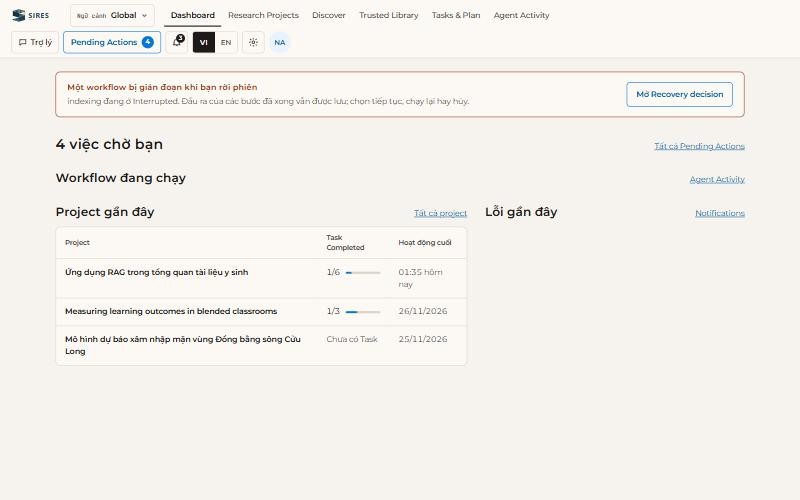
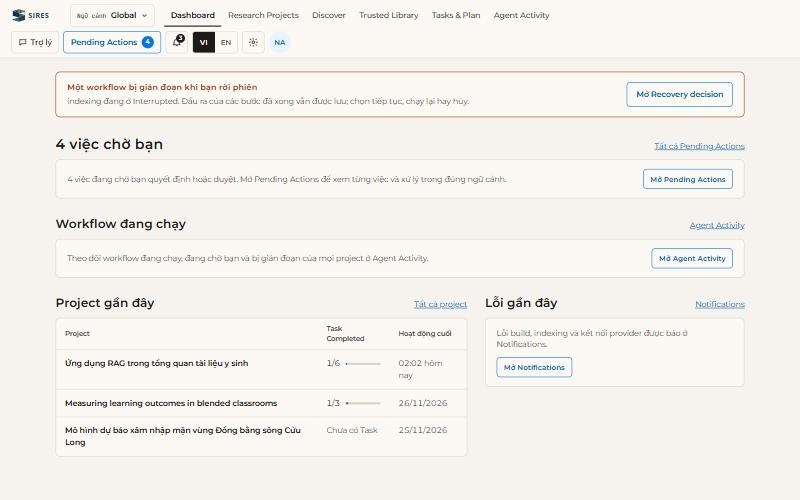
web/global: khối Dashboard chưa có dòng có câu giải thích và hành động tiếp (PID-00037 Lần 2)
Theo nhận xét của phiên điều phối: khối việc chờ, Workflow, Lỗi gần đây có
một dòng giải thích và nút tới Pending Actions, Agent Activity, Notifications
cho tới khi PID-00060 cấp dòng (H2); khi không có việc chờ thì nêu lý do.
Nhãn Task Completed giữ như Dashboard.html (thuật ngữ cố định).

Phiên do PO giao, làm thay assignee congminh1705.

diff --git a/apps/web/src/features/global/dashboard/DashboardScreen.tsx b/apps/web/src/features/global/dashboard/DashboardScreen.tsx
@@ -6,7 +6,7 @@
 // loading, error and empty state (WS-DASHBOARD-001). First-run (H3): no Active project → empty block with
 // “Tạo project”; no Provider Connection → API key banner. Recovery banner on Interrupted workflows (H4).
 
-import { useCallback, useEffect, useState } from 'react';
+import { useCallback, useEffect, useState, type ReactNode } from 'react';
 import { useTranslation } from 'react-i18next';
 import { Link } from 'react-router';
 import type { PublicApi } from '@sires/contracts';
@@ -93,12 +93,29 @@ function PendingBlock({ state, onRetry }: { state: Load<Dashboard>; onRetry: () 
       </div>
       {state.status === 'loading' && <LoadingState what={t('dashboard.pending.loadingWhat')} rows={2} />}
       {state.status === 'error' && <ErrorState error={state.error} ns="global" onRetry={onRetry} />}
+      {count === 0 && <p className="g-note">{t('dashboard.pending.noneReason')}</p>}
+      {count !== undefined && count > 0 && <BlockNote text={t('dashboard.pending.note', { count })} to="/pending-actions" action={t('dashboard.pending.open')} />}
     </section>
   );
 }
 
-/** Frame of a block whose rows PID-00060 fills (H2): heading and the link to the full screen. */
-function FrameBlock({ id, block, title, link, linkLabel, side }: { id: string; block: string; title: string; link: string; linkLabel: string; side?: boolean }) {
+/**
+ * Explanation and next action shown in a block until it has rows (design.md §4 “Trống”: lý do + hành động tiếp). The
+ * rows of the pending, workflow and error blocks come with PID-00060 (H2); until then the block says where to look.
+ */
+function BlockNote({ text, to, action }: { text: string; to: string; action: string }) {
+  return (
+    <div className="g-block-note">
+      <p className="g-block-note__text">{text}</p>
+      <Link className="sires-button" data-variant="outline" data-size="sm" to={to}>
+        {action}
+      </Link>
+    </div>
+  );
+}
+
+/** Frame of a block whose rows PID-00060 fills (H2): heading, link to the full screen, then rows or a note. */
+function FrameBlock({ id, block, title, link, linkLabel, side, note, children }: { id: string; block: string; title: string; link: string; linkLabel: string; side?: boolean; note: { text: string; action: string }; children?: ReactNode }) {
   return (
     <section aria-labelledby={id} className={side ? 'g-section g-block--side' : 'g-section'} data-block={block}>
       <div className="g-head g-head--baseline">
@@ -109,6 +126,7 @@ function FrameBlock({ id, block, title, link, linkLabel, side }: { id: string; b
           {linkLabel}
         </Link>
       </div>
+      {children ?? <BlockNote text={note.text} to={link} action={note.action} />}
     </section>
   );
 }
@@ -223,10 +241,10 @@ export function DashboardScreen() {
       {noConnection && <ApiKeyBanner />}
       {interrupted.length > 0 && <RecoveryBanner workflows={interrupted} pending={pending} />}
       <PendingBlock state={dashboard} onRetry={() => void reloadDashboard()} />
-      <FrameBlock id="g-dash-workflows" block="workflows" title={t('dashboard.workflows.title')} link="/activity" linkLabel={t('dashboard.workflows.all')} />
+      <FrameBlock id="g-dash-workflows" block="workflows" title={t('dashboard.workflows.title')} link="/activity" linkLabel={t('dashboard.workflows.all')} note={{ text: t('dashboard.workflows.note'), action: t('dashboard.workflows.open') }} />
       <div className="g-row">
         <RecentProjectsBlock state={dashboard} onRetry={() => void reloadDashboard()} />
-        <FrameBlock id="g-dash-errors" block="errors" title={t('dashboard.errors.title')} link="/notifications" linkLabel={t('dashboard.errors.all')} side />
+        <FrameBlock id="g-dash-errors" block="errors" title={t('dashboard.errors.title')} link="/notifications" linkLabel={t('dashboard.errors.all')} side note={{ text: t('dashboard.errors.note'), action: t('dashboard.errors.open') }} />
       </div>
     </div>
   );

diff --git a/apps/web/src/features/global/dashboard.spec.tsx b/apps/web/src/features/global/dashboard.spec.tsx
@@ -31,6 +31,10 @@ describe('Dashboard — khung (S05)', () => {
     }
     expect(pending.textContent).toMatch(/^[0-9]+ việc chờ bạn$/);
     expect(main().getByRole('link', { name: 'Tất cả Pending Actions' }).getAttribute('href')).toBe('/pending-actions');
+    // Blocks whose rows come with PID-00060 explain where to look and offer the next action (design.md §4 Trống).
+    expect(main().getByRole('link', { name: 'Mở Pending Actions' }).getAttribute('href')).toBe('/pending-actions');
+    expect(main().getByRole('link', { name: 'Mở Agent Activity' }).getAttribute('href')).toBe('/activity');
+    expect(main().getByRole('link', { name: 'Mở Notifications' }).getAttribute('href')).toBe('/notifications');
   });
 
   it('bỏ project Archived (WS-DASHBOARD-001-AC04, EC05)', async () => {

diff --git a/apps/web/src/features/global/global.css b/apps/web/src/features/global/global.css
@@ -101,4 +101,6 @@ a.sires-button { text-decoration: none; }
 .g-block { flex: 3 1 520px; }
 .g-block--side { flex: 2 1 320px; }
 .g-list { margin: 0; padding: 0; list-style: none; }
+.g-block-note { display: flex; flex-wrap: wrap; align-items: center; justify-content: space-between; gap: 12px 16px; padding: 16px 20px; background: var(--sires-surface); border: 1px solid var(--sires-line); border-radius: var(--sires-radius-card); }
+.g-block-note__text { flex: 1 1 280px; margin: 0; font-size: 14px; line-height: 1.5; color: var(--sires-muted); }
 .g-notice { padding: 12px 16px; border: 1px solid var(--sires-line); border-radius: var(--sires-radius-card); background: var(--sires-surface); font-size: 14px; }

diff --git a/agent/execution/PID-00037/report.md b/agent/execution/PID-00037/report.md
@@ -66,6 +66,21 @@ Không có.
   - `projects-delete-dialog.jpg`: dialog xóa (S04).
   - `projects-390.jpg`: Research Projects ở 390×844 (S02, EC17).
 
+
+## Lần 2 — 27/11/2026
+
+- **Yêu cầu (phiên điều phối, tóm tắt):** ba khối Dashboard “n việc chờ bạn”, “Workflow đang chạy”, “Lỗi gần đây” chỉ có tiêu đề. Dashboard phải hiện danh sách thì dựng đủ; khối để trống là đúng thì phải có trạng thái trống theo design.md (câu giải thích và hành động tiếp); kiểm nhãn “Task Completed”.
+- **Phân loại:** trong phạm vi (P7, P8; design.md §4 “Trống”). Theo H2 của hồ sơ, dòng của ba khối là PID-00060 S06 (PR #142 đã dựng). Vì vậy #141 không thêm danh sách mà áp dụng ý (2).
+- **Đã làm:**
+  - mỗi khối có một dòng giải thích và nút viền xanh tới màn đầy đủ: “Mở Pending Actions”, “Mở Agent Activity”, “Mở Notifications” (`BlockNote` trong `dashboard/DashboardScreen.tsx`);
+  - khi không có việc chờ, khối hiện câu “Khi agent cần bạn duyệt hoặc trả lời, việc đó hiện ở đây đầu tiên.”;
+  - khi PID-00060 cấp dòng, phần giải thích tự ẩn;
+  - test: `dashboard.spec.tsx › thứ tự khối` kiểm thêm ba liên kết.
+- **Nhãn “Task Completed”:** đúng thiết kế. Cột này ở `docs/ui-design/pages/Dashboard.html` ghi “Task Completed” trong bản tiếng Việt; Task và Completed là thuật ngữ cố định, giữ tiếng Anh (UX-I18N-003, design.md §6).
+- **Sửa thêm** (commit `d6b9c9c`): danh sách workflow chặn lưu trữ, xóa lấy theo project rồi lọc ở client. Mock dùng chung không hiểu `status` dạng mảng.
+- **Kiểm:** `npx vitest run src/features/global/ src/shell/i18n.spec.ts`: 38 test đạt. Ảnh mới: `dashboard-mock-1440.jpg`.
+- **Trạng thái:** không đổi, vẫn chờ G1 (test của shell). Phiên web-shell sửa trên #138; tôi đã ghi bản vá đã đo ở `side-session-notes/…/web-global-shell-tests.md`.
+
 ---
 
 <!-- SPDX-License-Identifier: LicenseRef-eTroy-NC-1.0 -->
